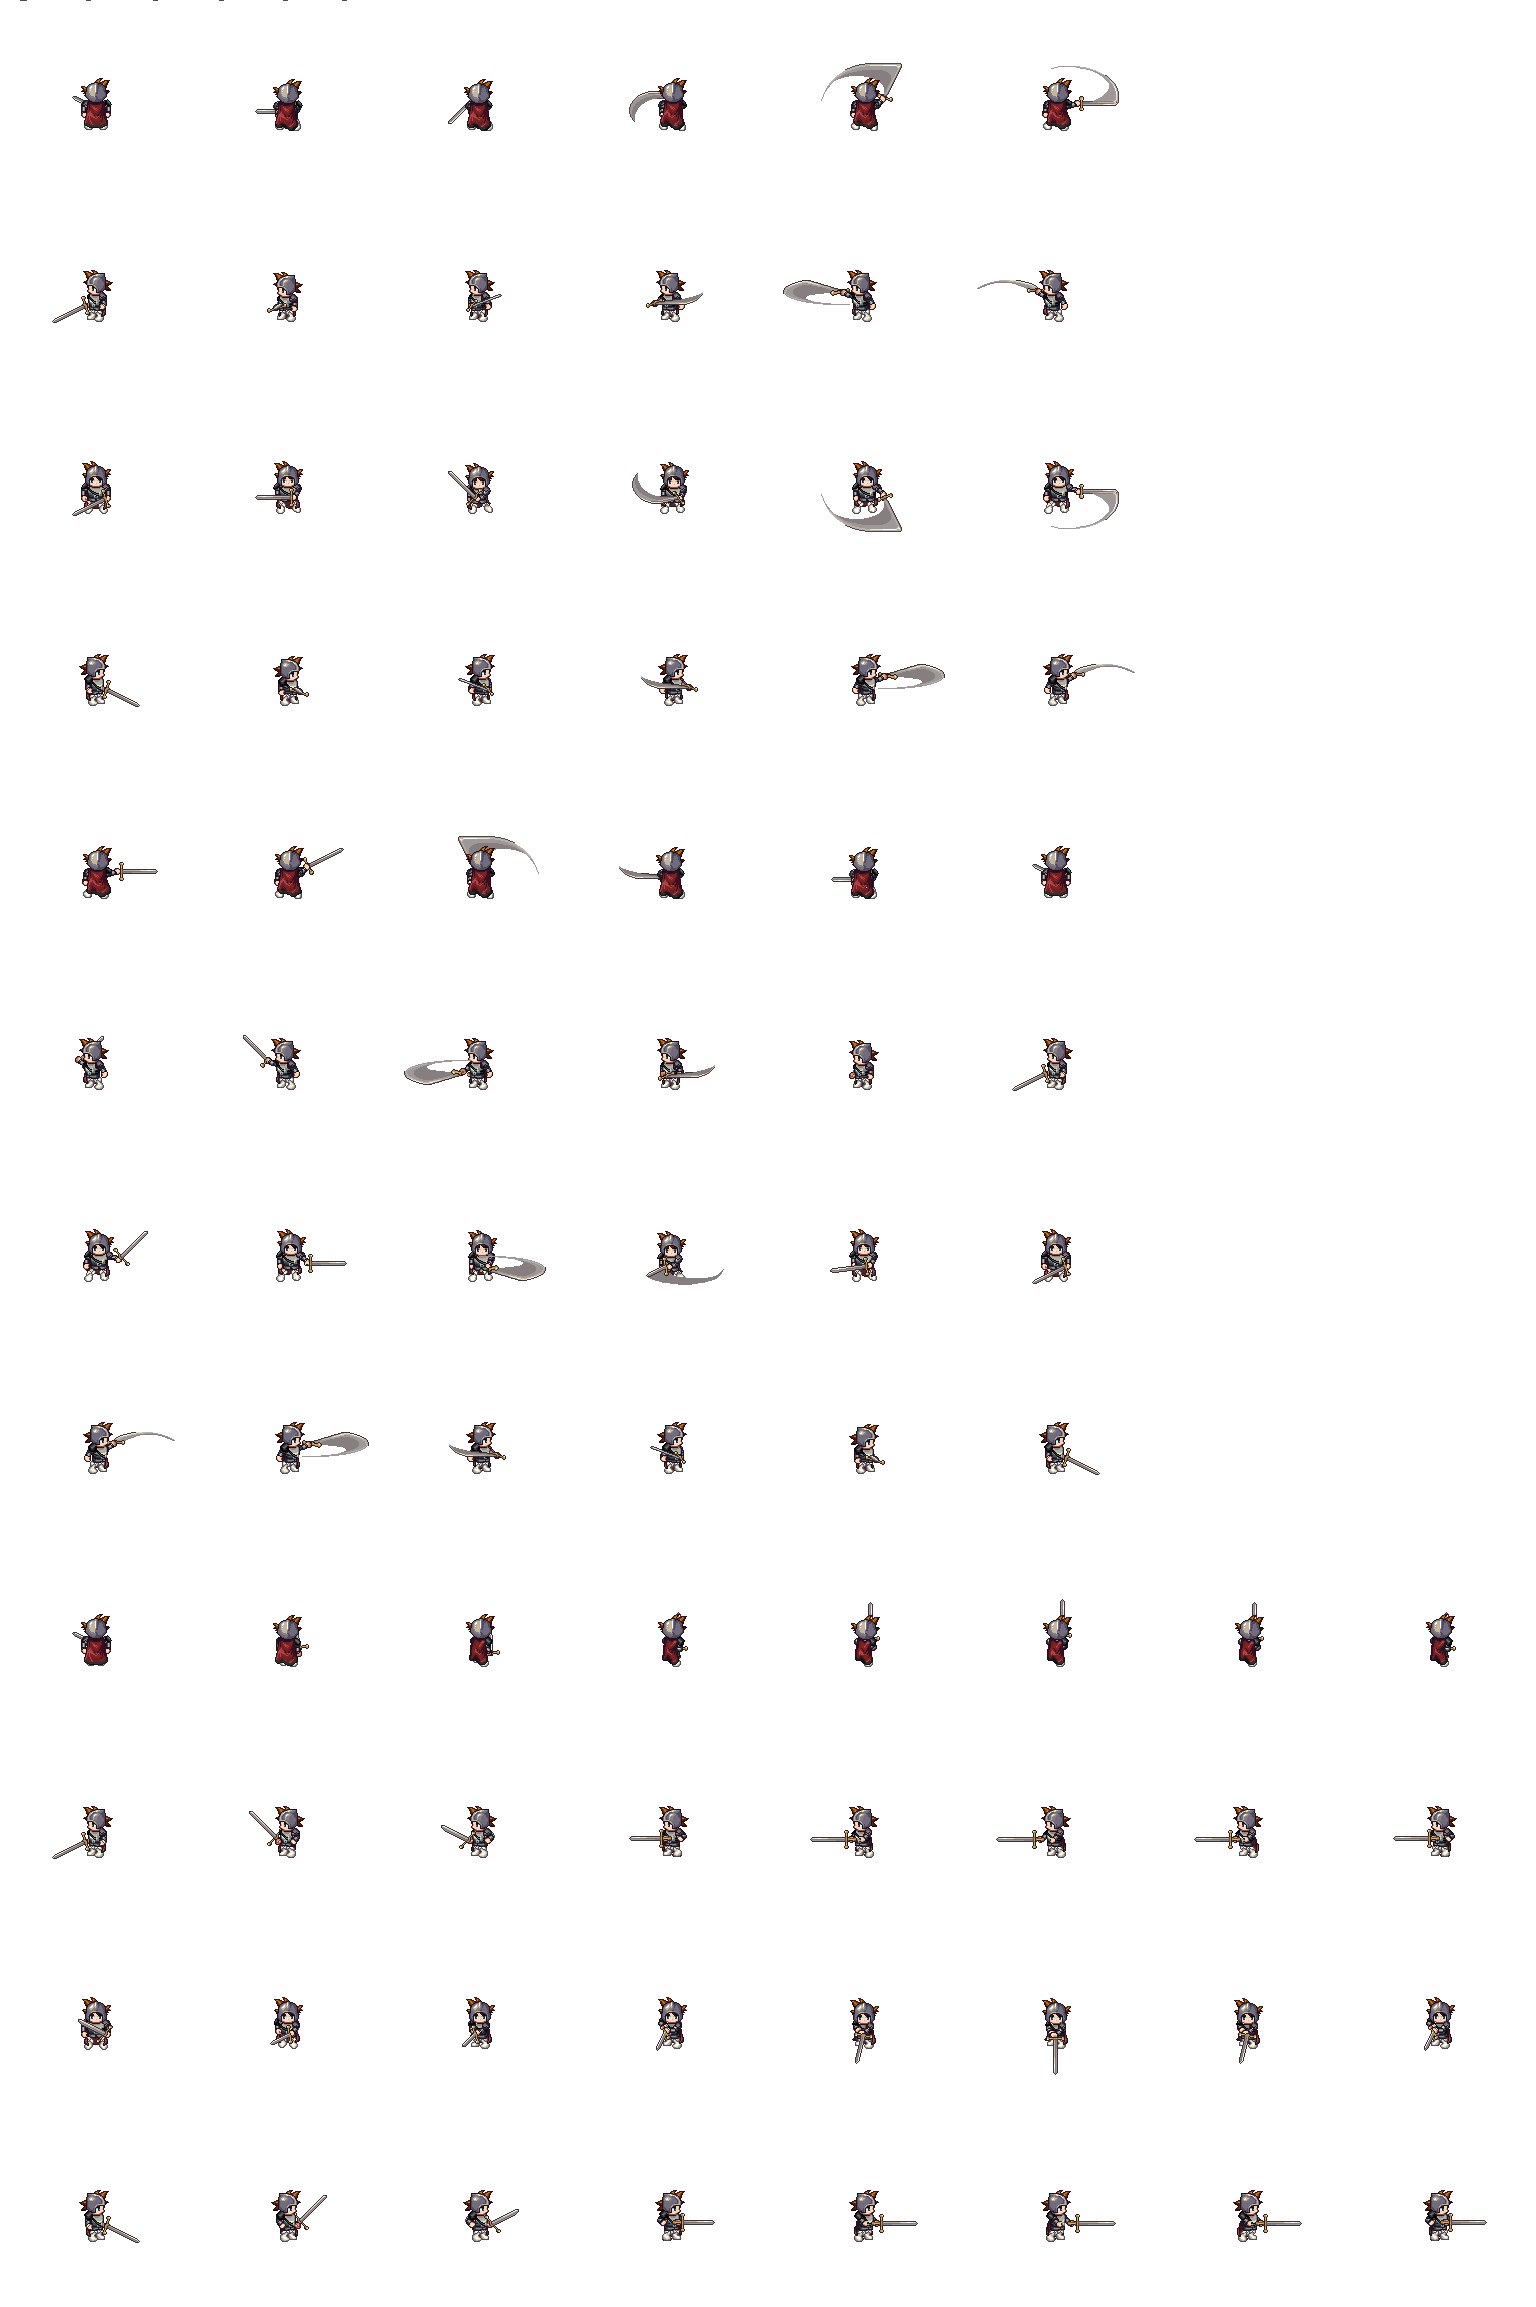
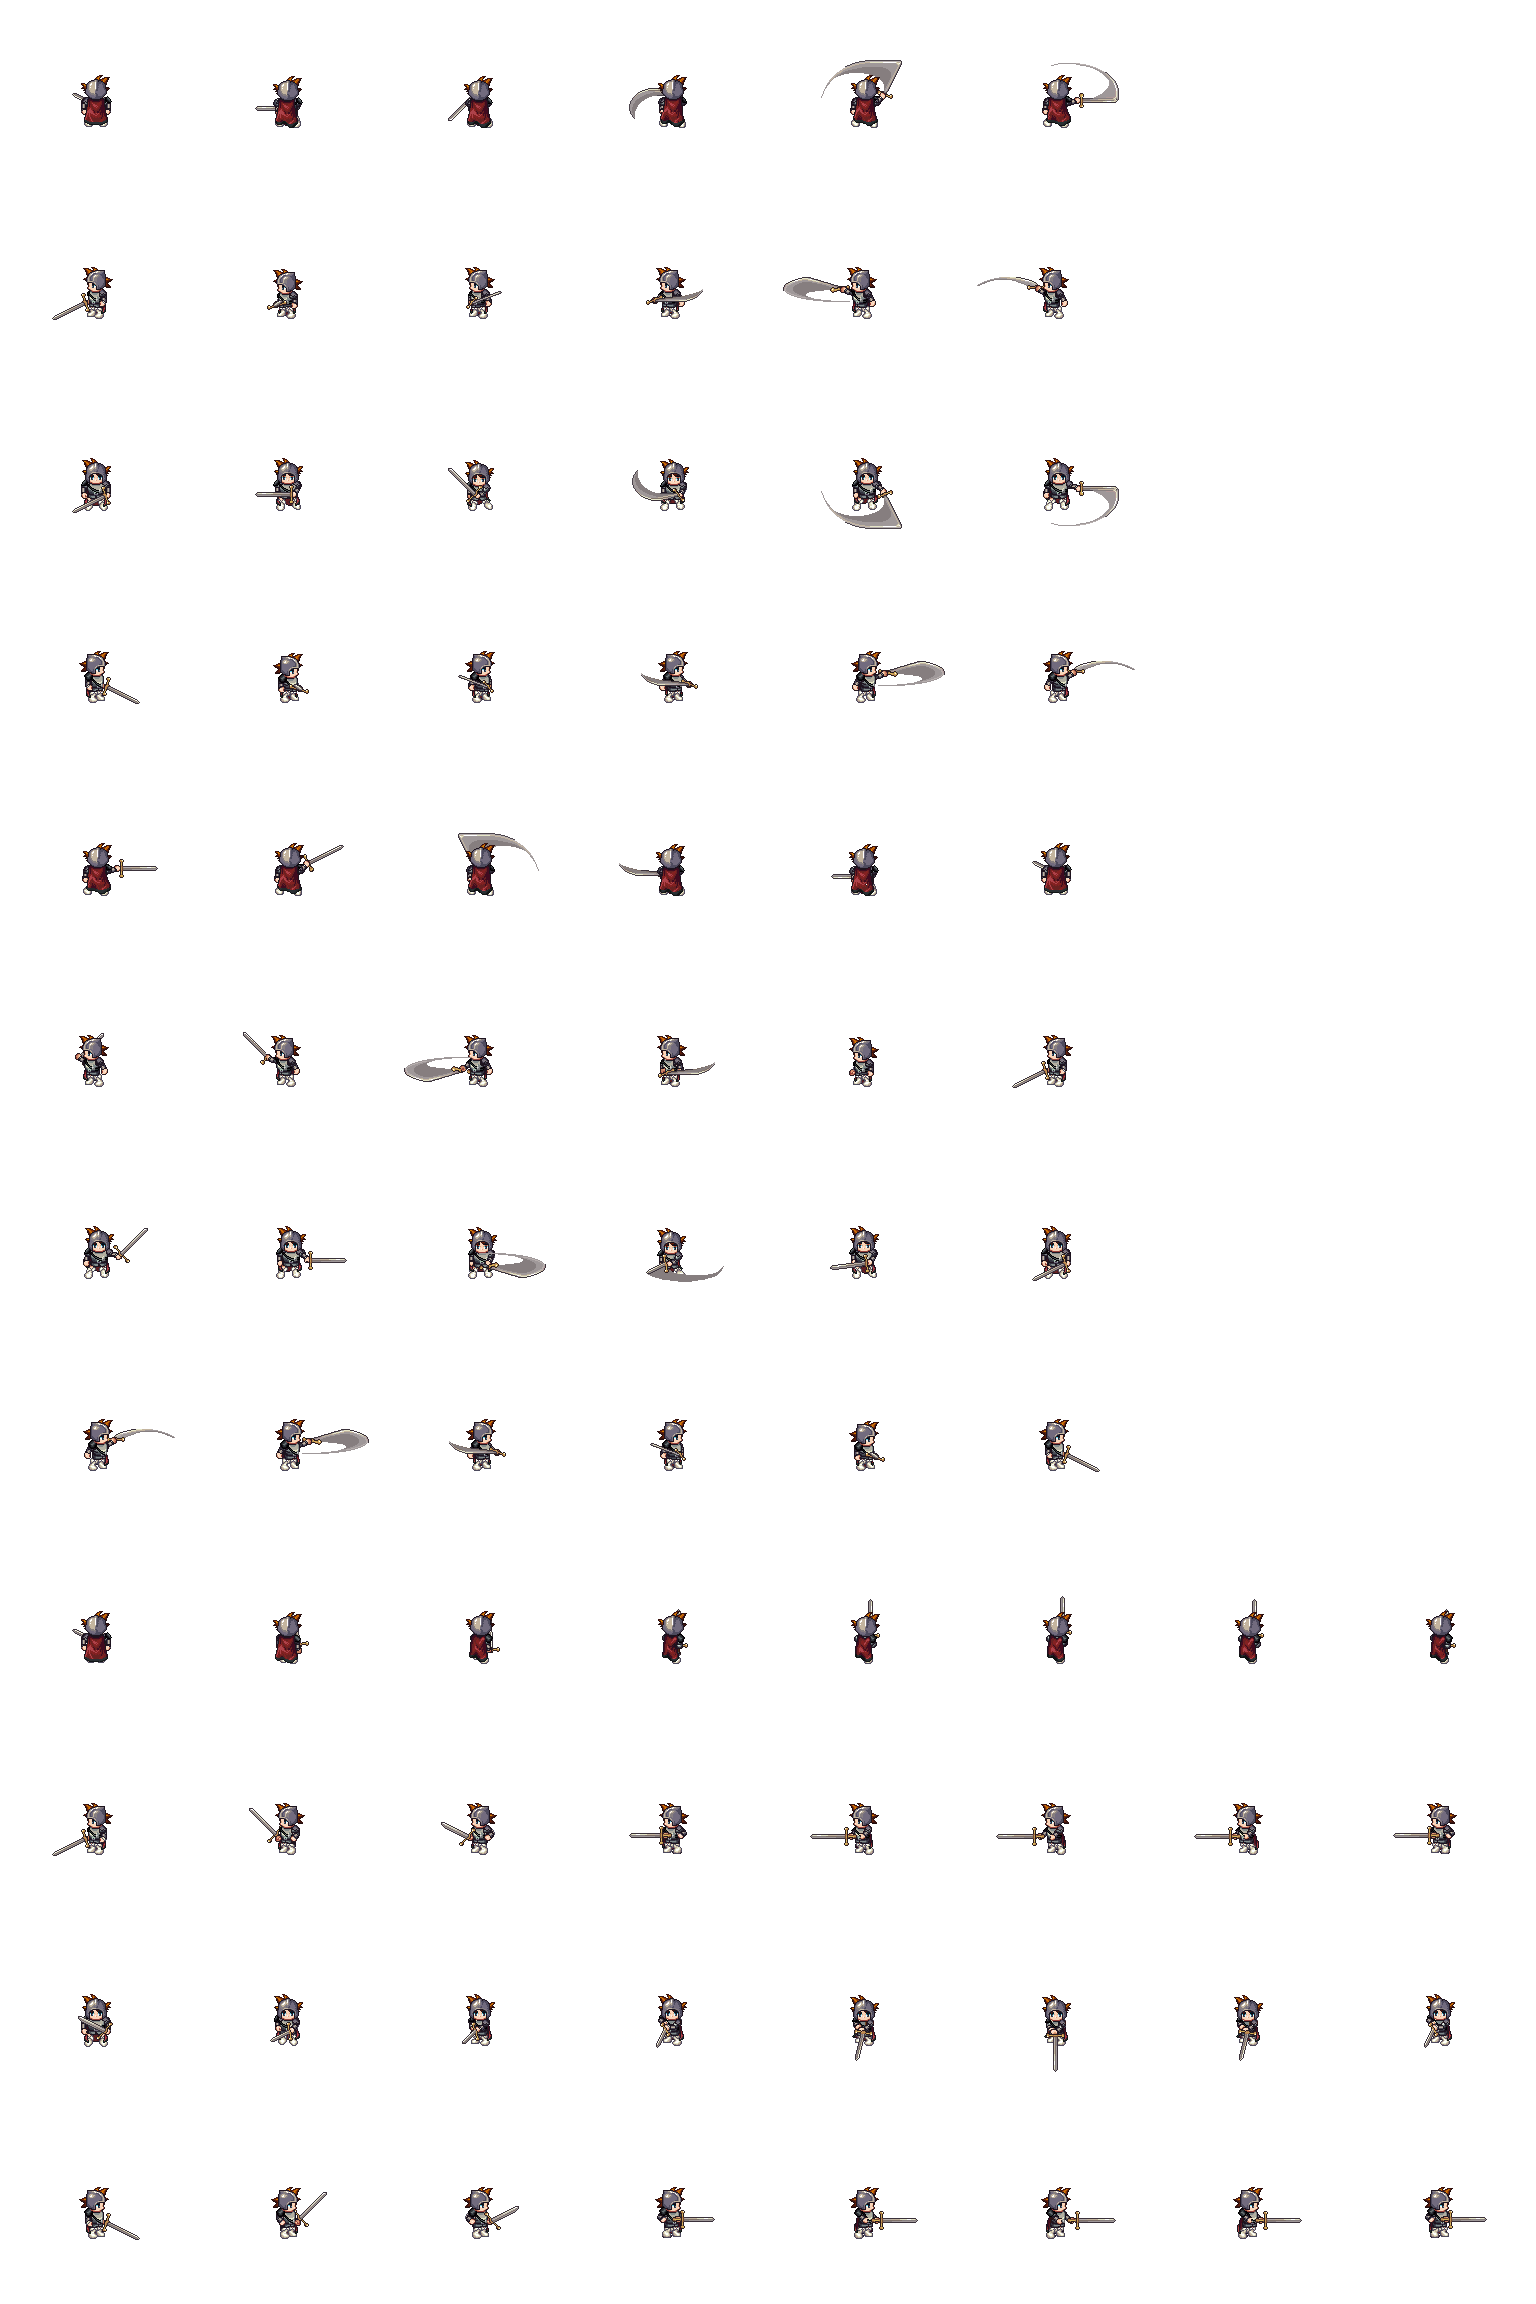
animation fixes

diff --git a/Player.java b/Player.java
@@ -15,7 +15,7 @@ public class Player extends HurtableEntity
     //private int countdown, direction, frame;
     private int xSpeed, ySpeed;
     private boolean isNew;
-    
+
     private int coins;
     //the number of enemies killed
     private int killed;
@@ -32,7 +32,7 @@ public class Player extends HurtableEntity
     public Player (){
         super("benjamin", 192);
         //need to make variable based on settingworld
-        
+
         curAnimation = walkAnimation;
 
         direction = 3;        
@@ -47,11 +47,12 @@ public class Player extends HurtableEntity
         countdown = 6;
         coins = 0;
 
-        collider = new CollisionBox(image.getWidth(), image.getHeight() / 2, this);
+        collider = new CollisionBox(image.getWidth(), image.getHeight(), this);
+        System.out.println("Width: " + image.getWidth() + " Height: " + image.getHeight());
     }
 
     public void addedToWorld(World w){
-        //w.addObject(collider, getX(), getY());
+        w.addObject(collider, getX(), getY());
     }
 
     /**
@@ -73,13 +74,14 @@ public class Player extends HurtableEntity
                 highestIndex = 5;
                 curAnimation = attackAnimation;
             } else if (curAction == ActionState.WALKING){
-                frame = 2;
+                frame = 1;
                 highestIndex = 8;
                 curAnimation = walkAnimation;
             } else if (curAction == ActionState.NOTHING){ 
-                toResting = true; //should've just been another action state
-                countdown = 6;
-            }
+                curAnimation = walkAnimation;
+                frame = 0;
+                setImage(walkAnimation.getOneImage(Direction.fromInteger(direction), frame));
+            } 
         }
 
         //lastFrame = frame;
@@ -90,30 +92,11 @@ public class Player extends HurtableEntity
             if (curAction == ActionState.WALKING){
                 //move player
                 //if (collider.isClear()){
-                    realX += xSpeed; 
-                    realY += ySpeed;
+                realX += xSpeed; 
+                realY += ySpeed;
                 //}
             }
-        } else if (toResting){
-            //player walking --> nothing: return to idle frame
-            if (frame == 0){
-                toResting = false;
-            } else {
-                //System.out.println(frame);
-                if (countdown > 0){
-                    countdown--;
-                } else {
-                    if (frame < 5){
-                        frame--;
-                    } else {
-                        frame++;
-                        if (frame > 8) frame = 0;
-                    }
-                    setImage(walkAnimation.getOneImage(Direction.fromInteger(direction), frame));
-                    countdown = 3;
-                }
-            }
-        }
+        } 
 
         centreOn(this);
         updateLocation();

diff --git a/CollisionBox.java b/CollisionBox.java
@@ -11,15 +11,15 @@ public class CollisionBox extends Scroller
     public static final boolean VISIBLE = true;
     private Actor owner;
     private GreenfootImage image;
-    
+
     public CollisionBox(int width, int height, Actor owner){
         this.owner = owner;
         image = new GreenfootImage(width, height);
-        image.setColor(Color.RED);
+        if (VISIBLE) image.setColor(Color.RED); else image.setColor(new Color(0, 0, 0, 0));
         image.fill();
         setImage(image);
     }
-    
+
     /**
      * Act - do whatever the CollisionBox wants to do. This method is called whenever
      * the 'Act' or 'Run' button gets pressed in the environment.
@@ -28,7 +28,7 @@ public class CollisionBox extends Scroller
     {
         setLocation(owner.getX(), owner.getY());
     }
-    
+
     public boolean isClear(){
         Tile t = (Tile) getOneIntersectingObject(Tile.class);
         if (t != null){

diff --git a/AnimationManager.java b/AnimationManager.java
@@ -82,10 +82,10 @@ public class AnimationManager
             System.out.println("Error in AnimationManager: GetSlice: You specified a SpriteSheet that was smaller than your desired output");
             return null;
         }
-        GreenfootImage small = new GreenfootImage (frameWidth-8, frameHeight);
+        GreenfootImage small = new GreenfootImage (frameWidth, frameHeight);
         // negatively offset the larger sprite sheet image so that a correct, small portion
         // of it is drawn onto the smaller, resulting image.
-        small.drawImage (spriteSheet, -xPos+4, -yPos);
+        small.drawImage (spriteSheet, -xPos, -yPos);
         return small;
     }
 

diff --git a/MyWorld.java b/MyWorld.java
@@ -119,7 +119,7 @@ public class MyWorld extends World
         
         //addObject(new Melee(), 534, 232);
         
-        setPaintOrder(SuperStatBar.class, Counter.class, Player.class, Enemy.class, Coin.class, CollisionBox.class, Tile.class);
+        setPaintOrder(SuperStatBar.class, Counter.class, Player.class, Enemy.class, Coin.class, CollisionBox.class, Actor.class, Tile.class, Board.class);
     }
 
     public void act(){
